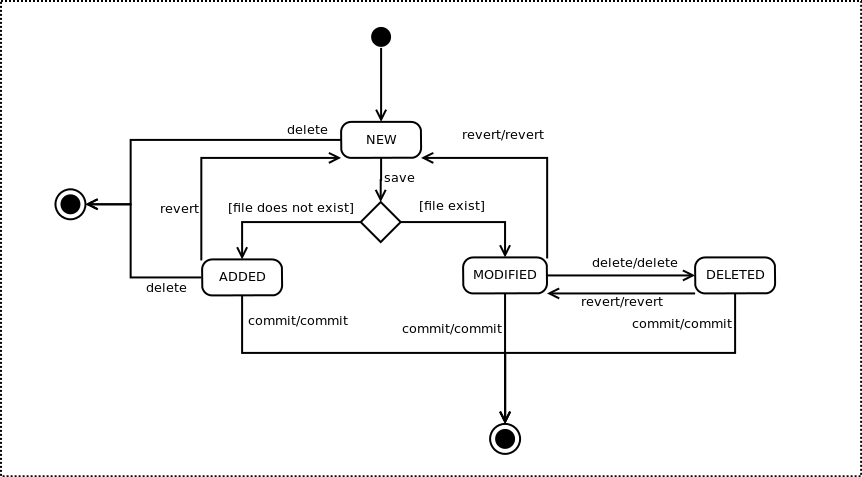
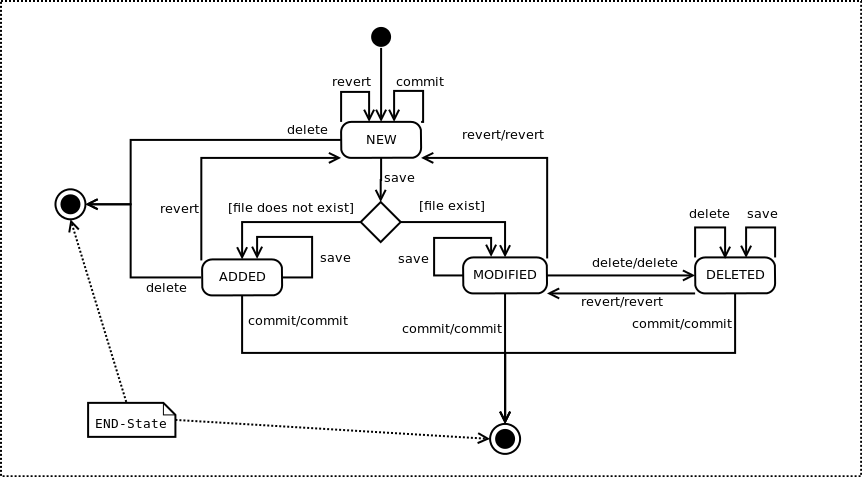
Updated Statediagram to actual implementation.

diff --git a/src/main/java/core/state/AddedDocumentState.java b/src/main/java/core/state/AddedDocumentState.java
@@ -11,6 +11,7 @@ public class AddedDocumentState implements DocumentState {
 	 */
 	@Override
 	public void revert(Document document) {
+		//TODO: Execute command here
 		document.setState( State.NEW );
 	}
 
@@ -19,6 +20,7 @@ public class AddedDocumentState implements DocumentState {
 	 */
 	@Override
 	public void commit(Document document) {
+		//TODO: Execute command here
 		document.setState( State.END );
 	}
 
@@ -27,6 +29,7 @@ public class AddedDocumentState implements DocumentState {
 	 */
 	@Override
 	public void delete(Document document) {
+		//TODO: Execute command here		
 		document.setState( State.END );
 	}
 
@@ -35,7 +38,7 @@ public class AddedDocumentState implements DocumentState {
 	 */
 	@Override
 	public void save(Document document) {
-		
+		//Nothing to do here
 	}
 
 }

diff --git a/src/main/java/core/state/NewDocumentState.java b/src/main/java/core/state/NewDocumentState.java
@@ -6,10 +6,11 @@ import core.Document.State;
 public class NewDocumentState implements DocumentState{
 
 	public void revert(Document document) {
-		
+		//Nothing todo here
 	}
 
 	public void save(Document document) {
+		//TODO: Execute command here
 		if ( document.getFile().exists() ){
 			document.setState( State.MODIFIED );
 		}
@@ -19,12 +20,13 @@ public class NewDocumentState implements DocumentState{
 	}
 
 	public void delete(Document document) {
+		//TODO: Execute command here
 		document.setState( State.END );
 	}
 
 	@Override
 	public void commit(Document document) {
-		
+		//Nothing todo here		
 	}
 	
 }

diff --git a/src/main/java/core/state/DeletedDocumentState.java b/src/main/java/core/state/DeletedDocumentState.java
@@ -7,24 +7,24 @@ public class DeletedDocumentState implements DocumentState {
 
 	@Override
 	public void revert(Document document) {
+		//TODO: Execute command here
 		document.setState( State.MODIFIED );
 	}
 
 	@Override
 	public void commit(Document document) {
+		//TODO: Execute command here
 		document.setState(State.END);
 	}
 
 	@Override
 	public void delete(Document document) {
-		// TODO Auto-generated method stub
-
+		//Nothing todo here
 	}
 
 	@Override
 	public void save(Document document) {
-		// TODO Auto-generated method stub
-
+		//Nothing todo here
 	}
 
 }

diff --git a/src/main/java/core/state/ModifiedDocumentState.java b/src/main/java/core/state/ModifiedDocumentState.java
@@ -7,22 +7,25 @@ public class ModifiedDocumentState implements DocumentState {
 
 	@Override
 	public void revert(Document document) {
+		//TODO: Execute command here
 		document.setState( State.NEW );
 	}
 
 	@Override
 	public void commit(Document document) {
+		//TODO: Execute command here
 		document.setState( State.END );
 	}
 
 	@Override
 	public void delete(Document document) {
+		//TODO: Execute command here
 		document.setState( State.DELETED );
 	}
 
 	@Override
 	public void save(Document document) {
-
+		//Nothing todo here
 	}
 
 }
